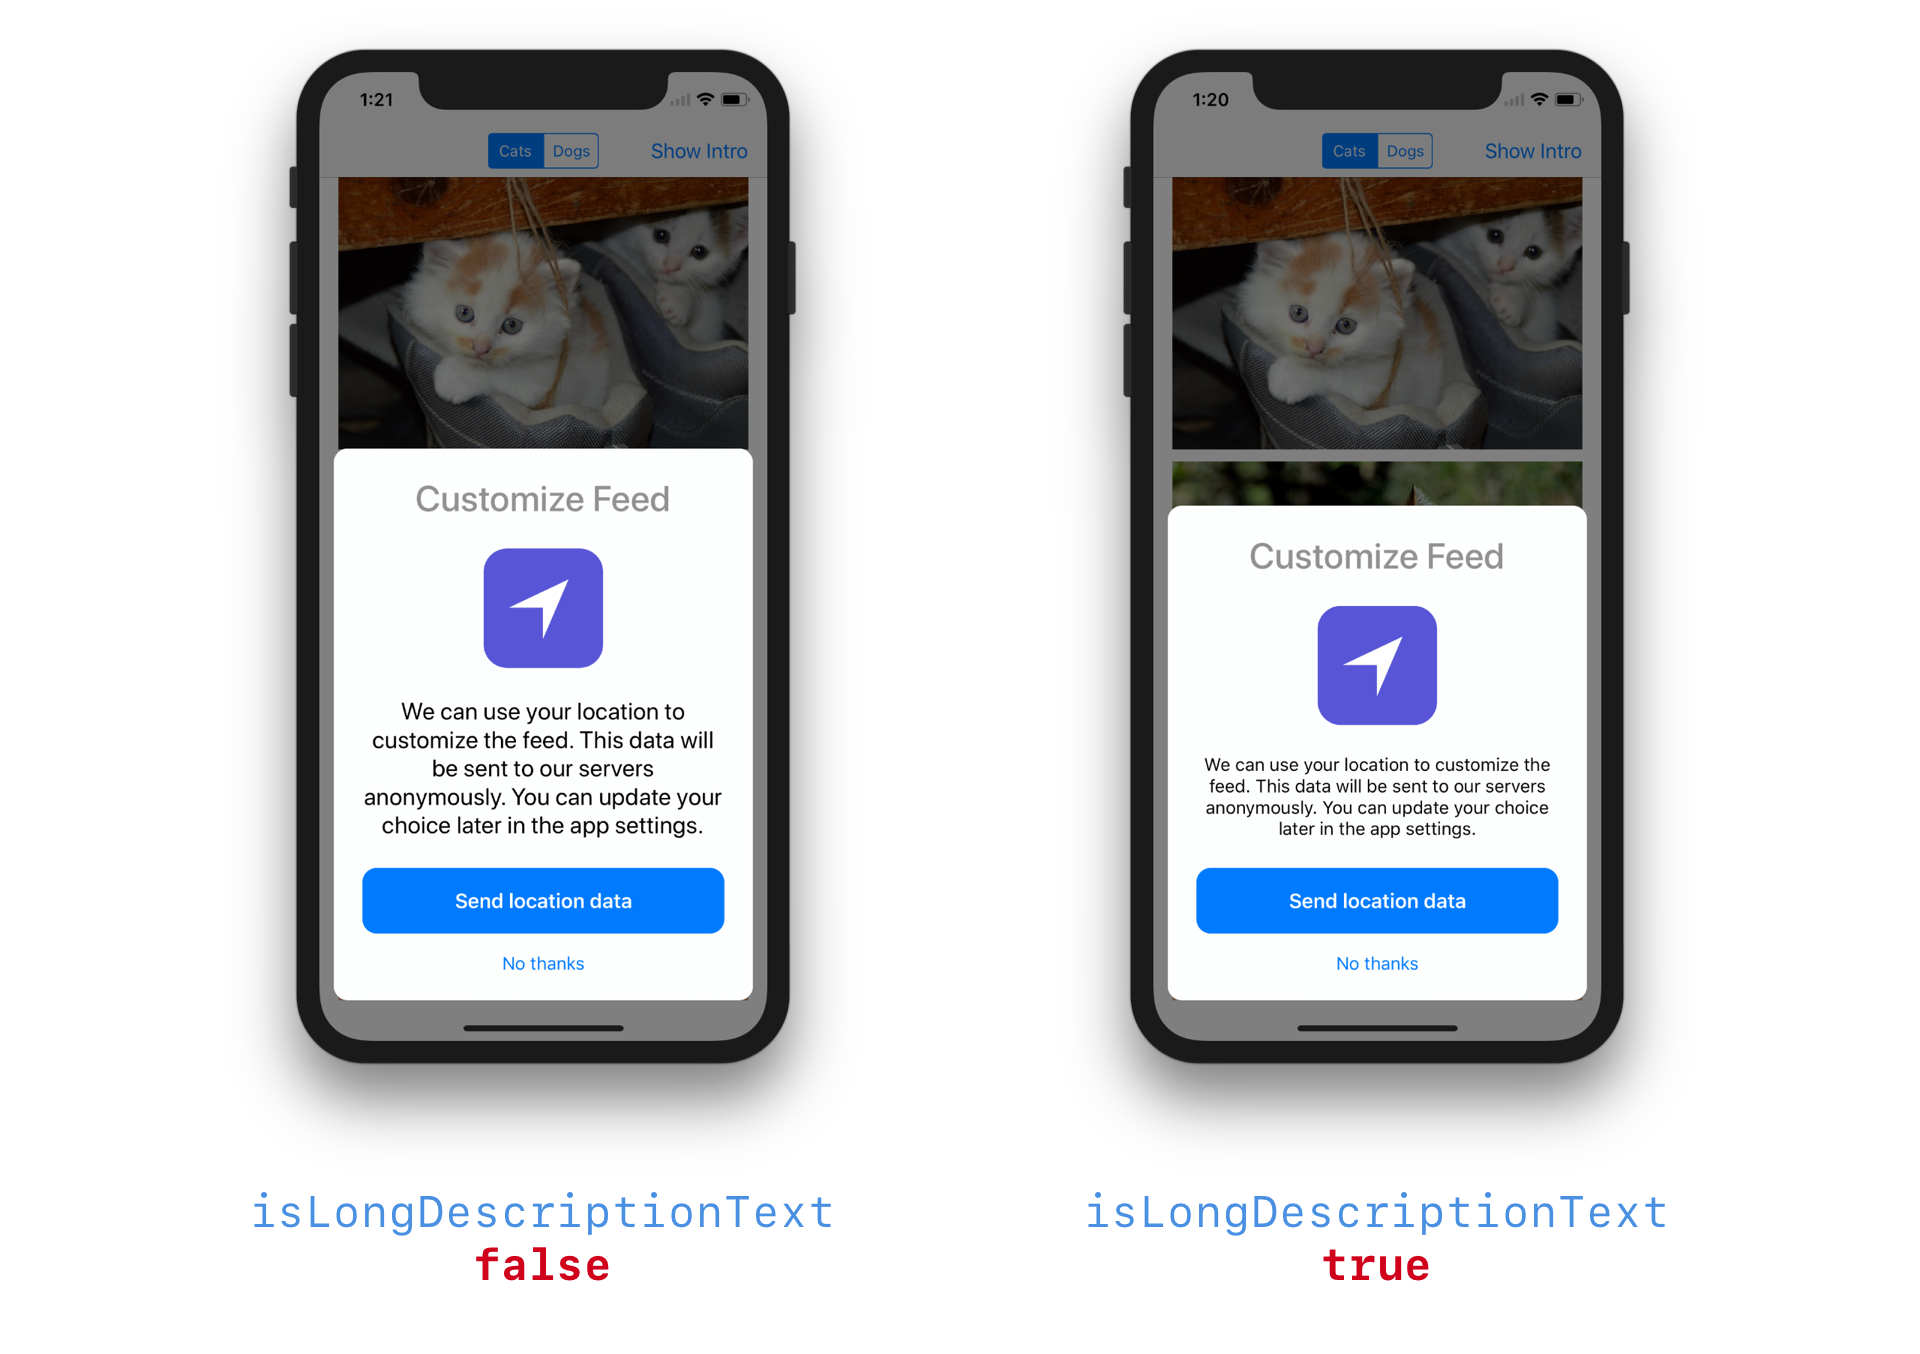
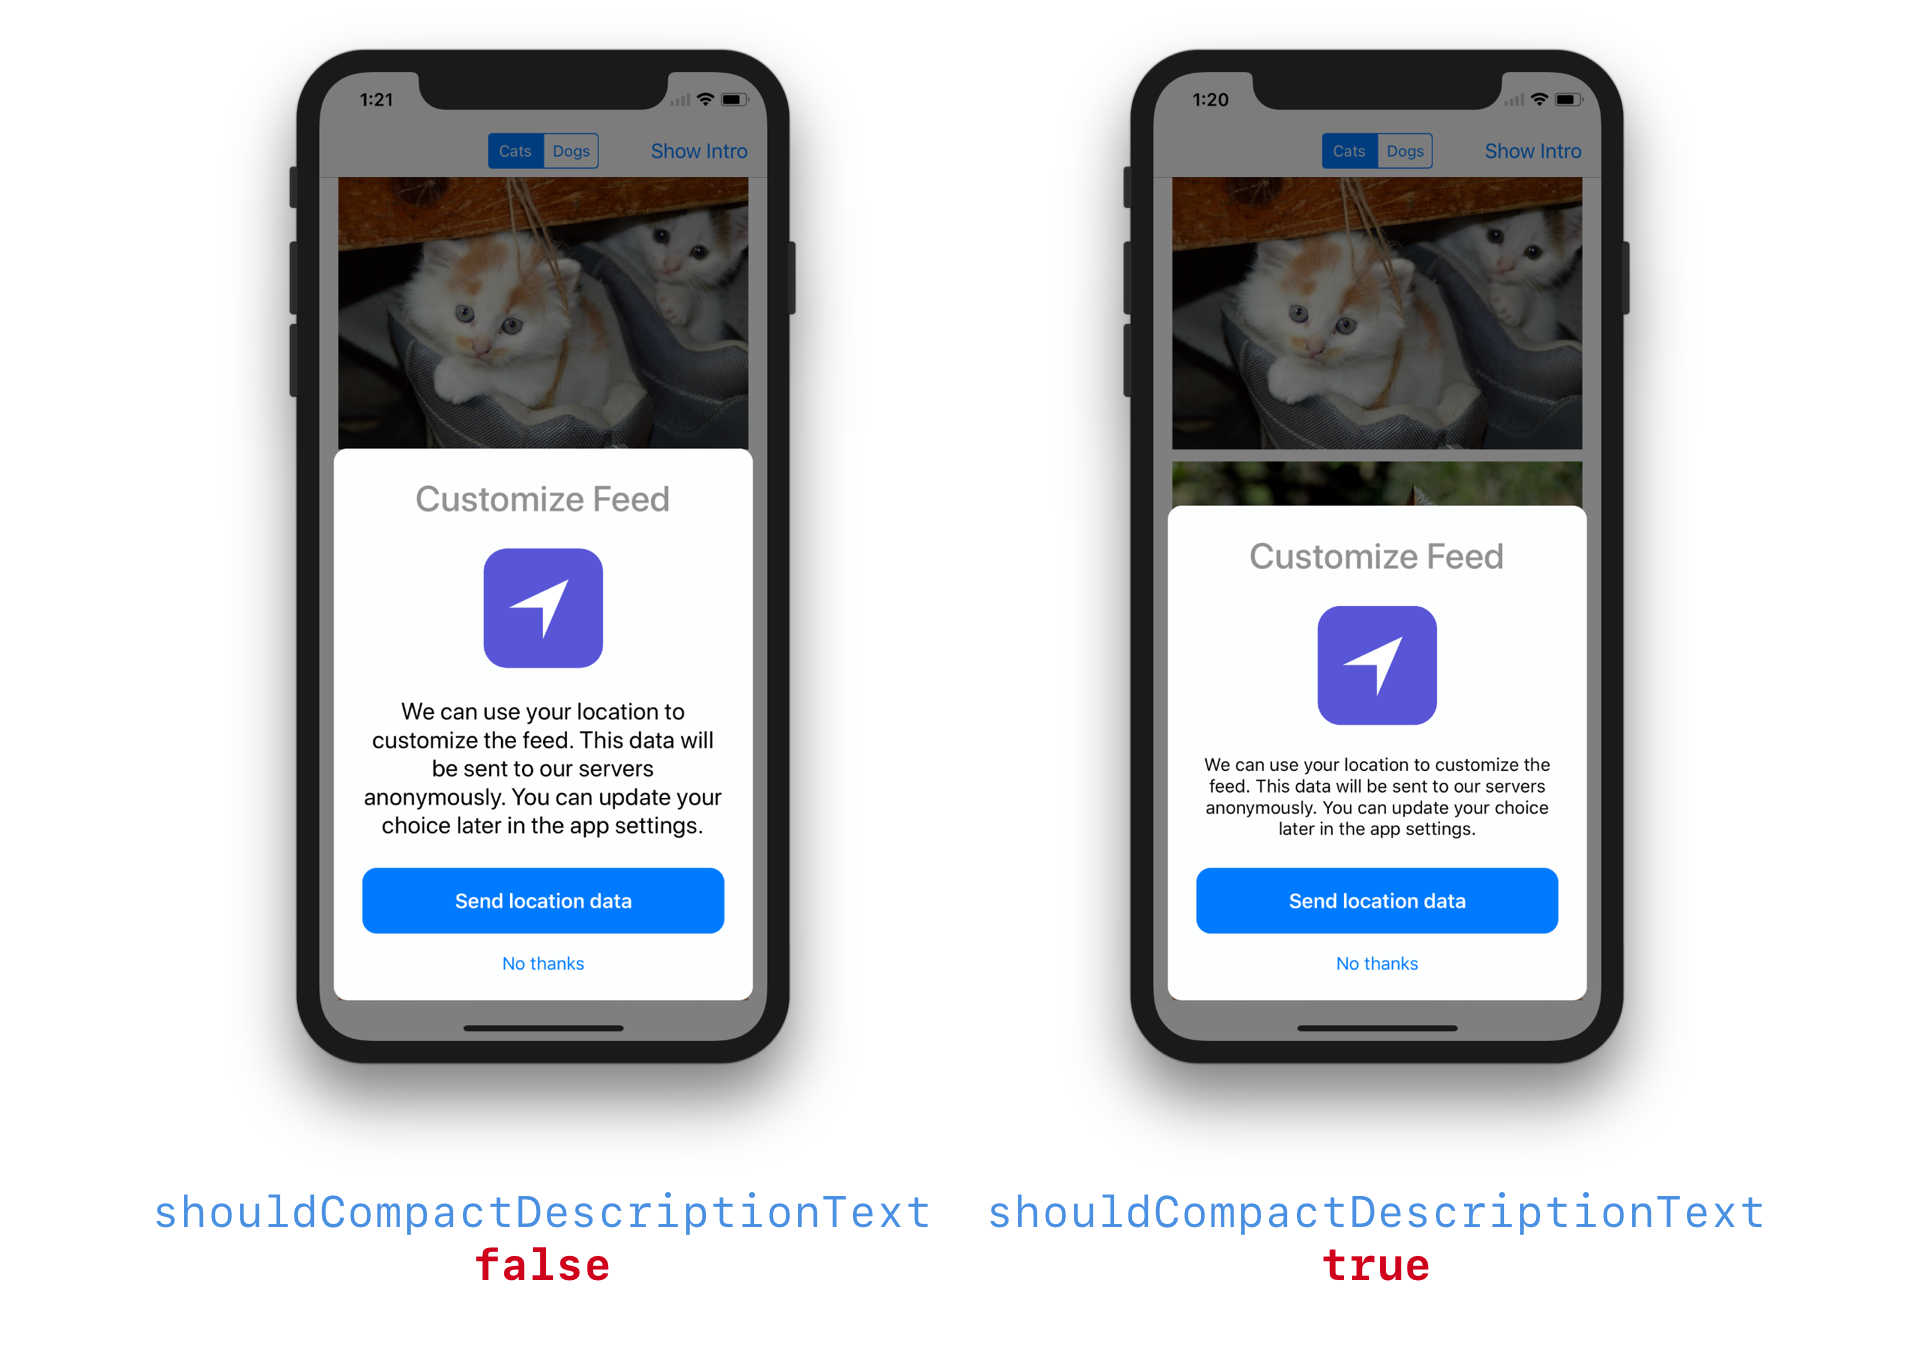
Improve docs by adding more details

Changed region(s): [[0.0938, 0.8685, 0.4688, 0.9306], [0.5312, 0.8685, 0.9062, 0.9306]]

diff --git a/Sources/PageBulletinItem.swift b/Sources/PageBulletinItem.swift
@@ -33,7 +33,7 @@ open class PageBulletinItem: BulletinItem {
     /// The title of the page.
     public let title: String
 
-    /// An image to display below the title. Should be 128x128px.
+    /// An image to display below the title. Should be less than or equal to 128x128px.
     public var image: UIImage?
 
     /// A description text to display below the image.
@@ -61,18 +61,20 @@ open class PageBulletinItem: BulletinItem {
     // MARK: - Customization
 
     /**
-     * Whether the description text is long. If `true`, the text will be displayed with a smaller font.
-     */
-
-    public var isLongDescriptionText: Bool = false
-
-    /**
      * The interface factory used to generate the interface of the page.
      *
-     * Use this property to customize the appearance of buttons.
+     * Use this property to customize the appearance of the generated elements.
      */
 
     public let interfaceFactory = BulletinInterfaceFactory()
+
+    /**
+     * Whether the description text should be displayed with a smaller font.
+     *
+     * You should set this to `true` if your text is long (more that two sentences).
+     */
+
+    public var shouldCompactDescriptionText: Bool = false
 
 
     // MARK: - Buttons
@@ -117,11 +119,7 @@ open class PageBulletinItem: BulletinItem {
 
     // MARK: - View Management
 
-    public func tearDown() {
-        actionButton?.contentView.removeTarget(self, action: nil, for: .touchUpInside)
-        alternativeButton?.removeTarget(self, action: nil, for: .touchUpInside)
-    }
-
+    /// :nodoc:
     public func makeArrangedSubviews() -> [UIView] {
 
         var arrangedSubviews = [UIView]()
@@ -139,7 +137,7 @@ open class PageBulletinItem: BulletinItem {
             let imageView = UIImageView()
             imageView.image = image
             imageView.contentMode = .scaleAspectFit
-            imageView.heightAnchor.constraint(lessThanOrEqualToConstant: 100).isActive = true
+            imageView.heightAnchor.constraint(lessThanOrEqualToConstant: 128).isActive = true
 
             arrangedSubviews.append(imageView)
 
@@ -149,7 +147,7 @@ open class PageBulletinItem: BulletinItem {
 
         if let descriptionText = self.descriptionText {
 
-            let descriptionLabel = interfaceFactory.makeDescriptionLabel(isCompact: isLongDescriptionText)
+            let descriptionLabel = interfaceFactory.makeDescriptionLabel(isCompact: shouldCompactDescriptionText)
             descriptionLabel.text = descriptionText
             arrangedSubviews.append(descriptionLabel)
 
@@ -182,6 +180,12 @@ open class PageBulletinItem: BulletinItem {
         arrangedSubviews.append(buttonsStack)
         return arrangedSubviews
 
+    }
+
+    /// :nodoc:
+    public func tearDown() {
+        actionButton?.contentView.removeTarget(self, action: nil, for: .touchUpInside)
+        alternativeButton?.removeTarget(self, action: nil, for: .touchUpInside)
     }
 
 }

diff --git a/Sources/BulletinItem.swift b/Sources/BulletinItem.swift
@@ -11,13 +11,37 @@ import UIKit
 
 public protocol BulletinItem: class {
 
-    /// The current object managing the item.
+    // MARK: - Configuration
+
+    /**
+     * The current object managing the item.
+     *
+     * This property is set when the item is currently being displayed. It will be set to `nil` when
+     * the item is removed from view.
+     *
+     * When implementing `BulletinItem`, you should make this property `weak` to avoid retain cycles.
+     */
+
     var manager: BulletinManager? { get set }
 
-    /// Whether the page can be dismissed.
+    /**
+     * Whether the page can be dismissed.
+     *
+     * If you set this value to `true`, the user will be able to dismiss the bulletin by tapping outside
+     * the card.
+     *
+     * You should set it to `true` for the last item you want to display.
+     */
+
     var isDismissable: Bool { get set }
 
-    /// The item to display after this one.
+    /**
+     * The item to display after this one.
+     *
+     * If you set this value, you'll be able to call `displayNextItem()` to present the next item to
+     * the stack.
+     */
+
     var nextItem: BulletinItem? { get set }
 
     /**

diff --git a/Example/Sources/BulletinDataSource.swift b/Example/Sources/BulletinDataSource.swift
@@ -100,7 +100,7 @@ enum BulletinDataSource {
         page.actionButtonTitle = "Send location data"
         page.alternativeButtonTitle = "No thanks"
 
-        //page.isLongDescriptionText = true
+        page.shouldCompactDescriptionText = true
         page.isDismissable = false
 
         page.actionHandler = { item in

diff --git a/Sources/BulletinInterfaceFactory.swift b/Sources/BulletinInterfaceFactory.swift
@@ -143,6 +143,8 @@ public class BulletinInterfaceFactory {
 
     /**
      * Creates a stack view to contain a group of objects.
+     *
+     * - parameter spacing: The spacing between elements. Defaults to `10`.
      */
 
     public func makeGroupStack(spacing: CGFloat = 10) -> UIStackView {

diff --git a/README.md b/README.md
@@ -150,7 +150,7 @@ This produces a card with the following appearance:
 
 #### Text Size
 
-If the description text is long, you can set the `isLongDescriptionText` property to `true` to reduce the text size.
+If the description text is long, you can set the `shouldCompactDescriptionText` property to `true` to reduce the text size.
 
 ![Text Size](.github/demo_long_text.png)
 
